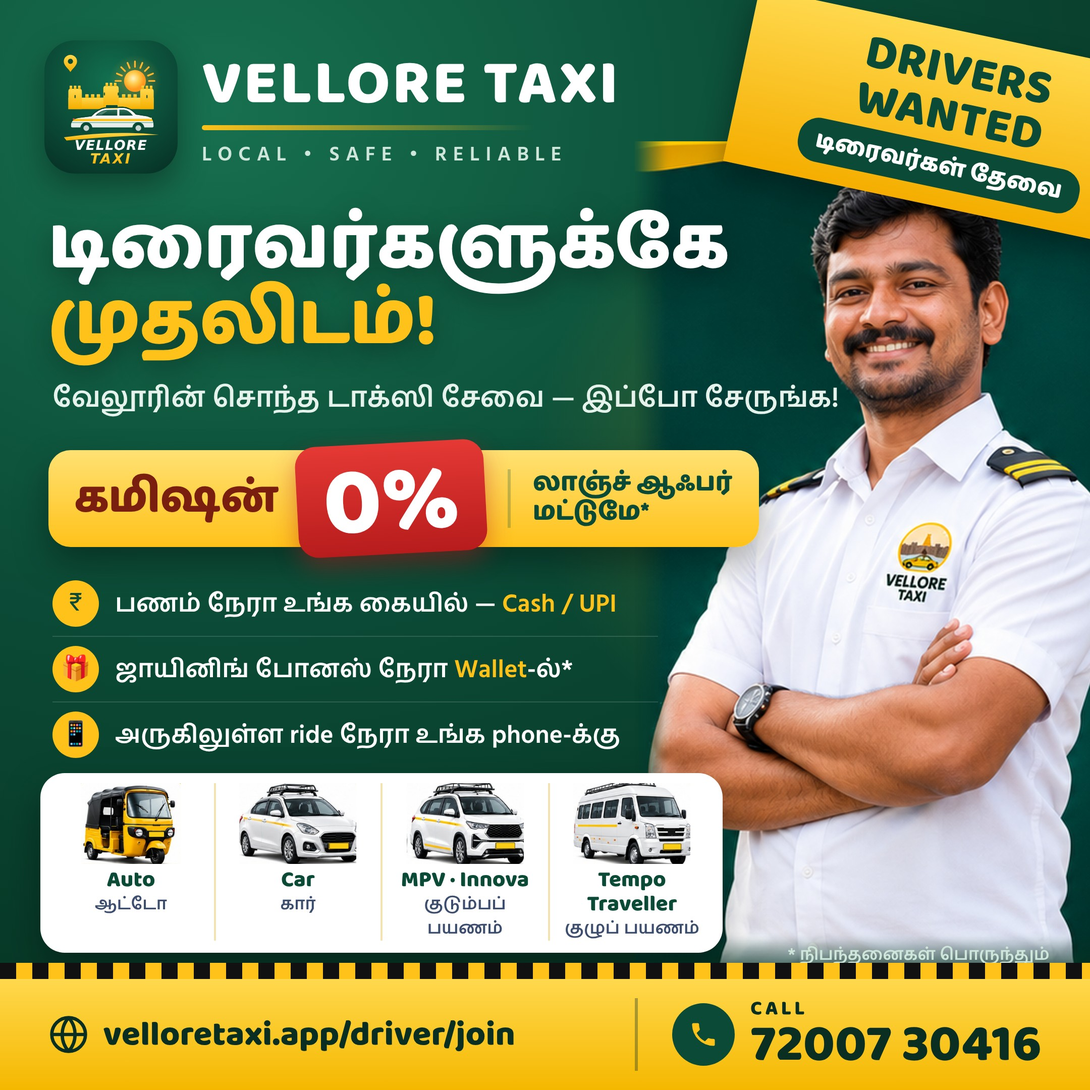
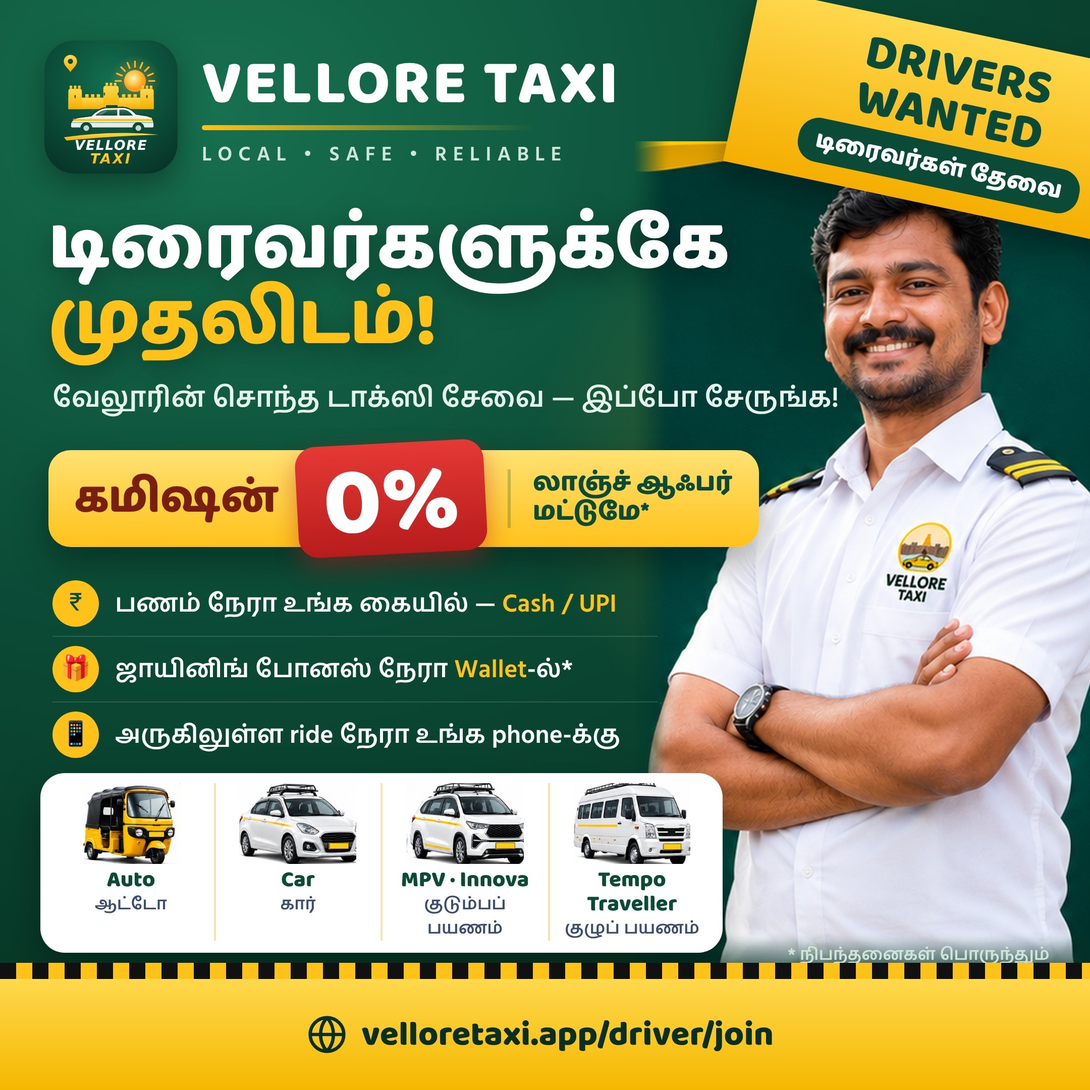
v75: Office Settings 'Driver help phone' — driver app calls it (empty = office phone); customers keep the office phone. Promo page: posters without phone, driver link /driver/. runhelp 7/7.
Claude-Session: https://claude.ai/code/session_012AzHw7bwToB8LFZ2KgyNPf

Changed region(s): [[0.031, 0.8995, 0.9616, 0.9926]]

diff --git a/office/index.html b/office/index.html
@@ -29,7 +29,7 @@
 <script>window.CLOUD_READY=new Promise(function(r){window.__cloud=r;setTimeout(function(){r(null)},20000)});</script>
 <script type="module">import('../vct-cloud.js').catch(function(e){console.error(e);window.__cloud(null)});</script>
 <script>/* auto-update: reload when a newer version of the app is published */
-(function(){var APPV=window.VCT_V='74',BASE=(document.querySelector('link[rel=manifest]')||{}).href||location.href;
+(function(){var APPV=window.VCT_V='75',BASE=(document.querySelector('link[rel=manifest]')||{}).href||location.href;
 function chk(){try{fetch(new URL('../version.json',location.href)+'?t='+Date.now(),{cache:'no-store'}).then(function(r){return r.json()}).then(function(j){
  if(!j||!j.v||j.v===APPV)return;var k='vct_reload_'+j.v;try{if(sessionStorage.getItem(k))return;sessionStorage.setItem(k,'1')}catch(e){}
  location.reload()}).catch(function(){})}catch(e){}}
@@ -701,11 +701,11 @@ details.faq p{margin:0;padding:0 14px 14px;color:var(--muted);font-size:14px;lin
 <div class="app" id="app"></div>
 <div class="toast" id="toast"></div>
 
-<script src="../core/report.js?v=74"></script>
-<script src="../core/geo.js?v=74"></script>
-<script src="../core/fare.js?v=74"></script>
-<script src="../core/driverchecks.js?v=74"></script>
-<script src="../core/map.js?v=74"></script>
+<script src="../core/report.js?v=75"></script>
+<script src="../core/geo.js?v=75"></script>
+<script src="../core/fare.js?v=75"></script>
+<script src="../core/driverchecks.js?v=75"></script>
+<script src="../core/map.js?v=75"></script>
 <script>
 /* shared with the customer app: icons, places, fares, map engine */
 const I = {
@@ -1747,7 +1747,8 @@ function settings(){
      <label class="lrow2"><span>${L('Driver app-ல "VCT கட்டணம்" breakup காட்டு (% காட்டாது — OFF என்றால் எங்கும் தெரியாது)','Show the "VCT fee" breakup in the driver app (never the % — OFF hides it everywhere)')}</span><input type="checkbox" id="sfee" ${c.showFee?'checked':''} style="width:22px;height:22px;flex:none"></label></section>
     <section class="panel"><div class="ph"><h3>${L('Business விவரம்','Business details')}</h3></div>
      <label class="lrow2 col"><span>${L('உங்க UPI ID (customer QR, driver recharge-க்கு)','Your UPI ID (customer QR and driver recharge)')}</span><span class="field"><input id="up" maxlength="50" placeholder="name@bank" value="${esc(c.upi)}"></span></label>
-     <label class="lrow2 col"><span>${L('Office phone (customer app "எங்களை அழை")','Office phone (customer app "Call us")')}</span><span class="field"><span class="cc">+91</span><input id="of" inputmode="numeric" maxlength="10" value="${esc(c.office)}"></span></label></section></div>
+     <label class="lrow2 col"><span>${L('Office phone (customer app "எங்களை அழை")','Office phone (customer app "Call us")')}</span><span class="field"><span class="cc">+91</span><input id="of" inputmode="numeric" maxlength="10" value="${esc(c.office)}"></span></label>
+     <label class="lrow2 col"><span>${L('ஓட்டுநர் உதவி எண் (driver app "Office-ஐ அழை" · காலியா விட்டா மேல உள்ள office எண்)','Driver help phone (driver app "Call the office" · empty = the office phone above)')}</span><span class="field"><span class="cc">+91</span><input id="dh" inputmode="numeric" maxlength="10" value="${esc(c.driverHelp||'')}"></span></label></section></div>
    <section class="panel" style="margin-top:14px"><div class="ph"><h3>${L('Outstation / Rental: Office முதல்','Outstation / rental: office first')}</h3></div>
     <p class="muted" style="margin:0 0 8px;font-size:13px">${L('புது Outstation / Rental booking முதல்ல office-க்கு வரும். இந்த நேரத்துக்குள்ள யாரும் assign பண்ணலைன்னா தானா drivers-க்கு போகும்: Outstation-க்கு 🏆 Top driver → 🆕 புது வண்டி (5 வருஷத்துக்குள்) → ⭐ மற்ற outstation drivers → 🚕 எல்லாரும். Top driver = ★4.5+ & 7 நாள்ல 35+ trips.','New outstation and rental bookings come to the office first. If nobody assigns in time, they go to drivers automatically. Outstation order: 🏆 top drivers → 🆕 new vehicles (≤5 yrs) → ⭐ other outstation drivers → 🚕 everyone. Top driver = ★4.5+ and 35+ trips in 7 days.')}</p>
     ${(()=>{const dp={...DISPD,...(c.dispatch||{})};const opt=(arr,v)=>arr.map(([x,l])=>`<option value="${x}" ${+v===x?'selected':''}>${l}</option>`).join('');
@@ -1795,10 +1796,11 @@ function settings(){
     // a config update from Firebase while this screen is open swaps the fare objects underneath the inputs,
     // so take every price from what is on screen right now, not from what was typed into the old objects
     app.querySelectorAll('.cell[data-f],[data-o],[data-r],[data-cb],.ocfg').forEach(i=>{if(i.oninput)i.oninput()});
-    const cm=+document.getElementById('cm').value,mb=+document.getElementById('mb').value,of=document.getElementById('of').value.replace(/\D/g,''),up=document.getElementById('up').value.trim();
+    const cm=+document.getElementById('cm').value,mb=+document.getElementById('mb').value,of=document.getElementById('of').value.replace(/\D/g,''),dh=document.getElementById('dh').value.replace(/\D/g,''),up=document.getElementById('up').value.trim();
     if(!(cm>=0&&cm<=40)){toast(L('Commission 0 முதல் 40% வரை','Commission must be 0–40%'));return}
     if(up&&!/^[\w.\-]{2,}@[a-zA-Z]{2,}$/.test(up)){toast(L('UPI ID சரியா இல்லை (name@bank)','UPI ID looks wrong (name@bank)'));return}
     if(of&&!/^[6-9]\d{9}$/.test(of)){toast(L('Office நம்பர் 10 இலக்கம்','Office number must be 10 digits'));return}
+    if(dh&&!/^[6-9]\d{9}$/.test(dh)){toast(L('ஓட்டுநர் உதவி நம்பர் 10 இலக்கம்','Driver help number must be 10 digits'));return}
     if(OUTV.some(id=>!(c.out.rate[id]>0)||!(c.out.rate1[id]>0))){toast(L('Outstation கி.மீ விலை 0 ஆக இருக்கக்கூடாது','Outstation per-km fares can’t be 0'));return}
     if(!(c.out.daykm>=100)){toast(L('ஒரு நாள் கி.மீ குறைந்தது 100','Km per day must be at least 100'));return}
     const gv=id=>parseInt(document.getElementById(id).value)||0,al=gv('a_local'),aa=gv('a_auto'),ca=gv('a_ca'),cb=gv('a_cb');
@@ -1812,8 +1814,8 @@ function settings(){
     if(nton&&(FARE.hm(ntf)==null||FARE.hm(ntt)==null||ntf===ntt)){toast(L('இரவு நேரம் சரியா போடுங்க','Enter valid night hours'));return}
     const nt={on:nton,from:ntf||'22:00',to:ntt||'05:00',pct:ntp>0?Math.min(100,ntp):25};c.night=nt;
     const dsp={review:+document.getElementById('drv').value,win:+document.getElementById('dw').value,gap:+document.getElementById('dg').value,fall:document.getElementById('dfb').checked};c.dispatch=dsp;
-    if(CL){cw(F().setDoc(F().doc(CL.db,'config','app'),{fares:c.fares,comm:cm,minbal:mb||0,office:of,upi:up,dispatch:dsp,wait:wt,night:nt,area,out:c.out,rent:c.rent,showBike:document.getElementById('sbk').checked,showFee:document.getElementById('sfee').checked,updatedAt:ts()},{merge:true}).then(()=>toast(L('சேமிச்சாச்சு. எல்லா app-லயும் உடனே மாறும்','Saved. All apps update right away'))));return}
-    Object.assign(c,{comm:cm,minbal:mb||0,office:of,upi:up,showFee:document.getElementById('sfee').checked});log('Settings மாற்றம்','Settings changed');saveDB();toast(L('சேமிச்சாச்சு','Saved'))};
+    if(CL){cw(F().setDoc(F().doc(CL.db,'config','app'),{fares:c.fares,comm:cm,minbal:mb||0,office:of,driverHelp:dh,upi:up,dispatch:dsp,wait:wt,night:nt,area,out:c.out,rent:c.rent,showBike:document.getElementById('sbk').checked,showFee:document.getElementById('sfee').checked,updatedAt:ts()},{merge:true}).then(()=>toast(L('சேமிச்சாச்சு. எல்லா app-லயும் உடனே மாறும்','Saved. All apps update right away'))));return}
+    Object.assign(c,{comm:cm,minbal:mb||0,office:of,driverHelp:dh,upi:up,showFee:document.getElementById('sfee').checked});log('Settings மாற்றம்','Settings changed');saveDB();toast(L('சேமிச்சாச்சு','Saved'))};
   {const sv=document.getElementById('ssv');if(sv)sv.onclick=()=>{if(CL&&!CFGOK)return;const vp=document.getElementById('svp').value.trim();if(vp&&!/^[A-Za-z0-9_\-]{60,120}$/.test(vp)){toast(L('VAPID key சரியா இல்லை','The VAPID key looks wrong'));return}
       const o={serverComm:document.getElementById('ssc').checked,serverOps:document.getElementById('sso').checked,privPhone:document.getElementById('spp').checked,serverPin:document.getElementById('spn').checked,reqConsent:document.getElementById('srq').checked,extNav:document.getElementById('sxn').checked,push:{vapid:vp},updatedAt:ts()};
       cw(F().setDoc(F().doc(CL.db,'config','app'),o,{merge:true}).then(()=>{Object.assign(c,o);toast(L('சேமிச்சாச்சு','Saved'))}))}}
@@ -1879,7 +1881,7 @@ function watchAll(){
   OUNS.push(F().onSnapshot(F().collection(CL.db,'driverApps'),s=>{const before=(DB.apps||[]).filter(a=>a.status==='pending').length;DB.apps=s.docs.map(d=>({id:d.id,...d.data()})).sort((x,y)=>CL.toMs(y.submittedAt)-CL.toMs(x.submittedAt));const n=DB.apps.filter(a=>a.status==='pending').length;if(SEEN!==null&&n>before){chime();toast(L('புது driver விண்ணப்பம் வந்திருக்கு','New driver application'))}remap()},oerr));
   OUNS.push(F().onSnapshot(F().query(F().collection(CL.db,'tickets'),F().orderBy('createdAt','desc'),F().limit(300)),s=>{RAWT=s.docs.map(d=>({_id:d.id,...d.data()}));remap()},oerr));
   OUNS.push(F().onSnapshot(F().doc(CL.db,'config','app'),s=>{const first=!CFGOK;CFGOK=true;if(s.exists()){const d=s.data();
-    Object.assign(DB.cfg,{comm:d.comm!=null?+d.comm:10,minbal:d.minbal!=null?+d.minbal:100,upi:d.upi||'',office:d.office||'',dispatch:{...DISPD,...(d.dispatch||{})},wait:d.wait||null,serverComm:!!d.serverComm,serverOps:!!d.serverOps,privPhone:!!d.privPhone,serverPin:!!d.serverPin,reqConsent:!!d.reqConsent,extNav:!!d.extNav,push:d.push||null,night:d.night||null,out:mergeOut(d.out),area:d.area||null,rent:mergeRent(d.rent),blocked:Array.isArray(d.blocked)?d.blocked:[],showBike:!!d.showBike,showFee:!!d.showFee,announce:Array.isArray(d.announce)?d.announce:[]});
+    Object.assign(DB.cfg,{comm:d.comm!=null?+d.comm:10,minbal:d.minbal!=null?+d.minbal:100,upi:d.upi||'',office:d.office||'',driverHelp:d.driverHelp||'',dispatch:{...DISPD,...(d.dispatch||{})},wait:d.wait||null,serverComm:!!d.serverComm,serverOps:!!d.serverOps,privPhone:!!d.privPhone,serverPin:!!d.serverPin,reqConsent:!!d.reqConsent,extNav:!!d.extNav,push:d.push||null,night:d.night||null,out:mergeOut(d.out),area:d.area||null,rent:mergeRent(d.rent),blocked:Array.isArray(d.blocked)?d.blocked:[],showBike:!!d.showBike,showFee:!!d.showFee,announce:Array.isArray(d.announce)?d.announce:[]});
     if(d.fares)Object.keys(d.fares).forEach(k=>{DB.cfg.fares[k]={...(DB.cfg.fares[k]||{}),...d.fares[k]}})}remap();
     // Settings opened before the saved settings arrived (e.g. after a refresh): draw it again with the real values
     if(first&&S.sec==='set'&&!document.querySelector('.modal')&&!typing())show()},oerr));

diff --git a/staging/office/index.html b/staging/office/index.html
@@ -29,7 +29,7 @@
 <script>window.CLOUD_READY=new Promise(function(r){window.__cloud=r;setTimeout(function(){r(null)},20000)});</script>
 <script type="module">import('../vct-cloud.js').catch(function(e){console.error(e);window.__cloud(null)});</script>
 <script>/* auto-update: reload when a newer version of the app is published */
-(function(){var APPV=window.VCT_V='74',BASE=(document.querySelector('link[rel=manifest]')||{}).href||location.href;
+(function(){var APPV=window.VCT_V='75',BASE=(document.querySelector('link[rel=manifest]')||{}).href||location.href;
 function chk(){try{fetch(new URL('../version.json',location.href)+'?t='+Date.now(),{cache:'no-store'}).then(function(r){return r.json()}).then(function(j){
  if(!j||!j.v||j.v===APPV)return;var k='vct_reload_'+j.v;try{if(sessionStorage.getItem(k))return;sessionStorage.setItem(k,'1')}catch(e){}
  location.reload()}).catch(function(){})}catch(e){}}
@@ -701,11 +701,11 @@ details.faq p{margin:0;padding:0 14px 14px;color:var(--muted);font-size:14px;lin
 <div class="app" id="app"></div>
 <div class="toast" id="toast"></div>
 
-<script src="../core/report.js?v=74"></script>
-<script src="../core/geo.js?v=74"></script>
-<script src="../core/fare.js?v=74"></script>
-<script src="../core/driverchecks.js?v=74"></script>
-<script src="../core/map.js?v=74"></script>
+<script src="../core/report.js?v=75"></script>
+<script src="../core/geo.js?v=75"></script>
+<script src="../core/fare.js?v=75"></script>
+<script src="../core/driverchecks.js?v=75"></script>
+<script src="../core/map.js?v=75"></script>
 <script>
 /* shared with the customer app: icons, places, fares, map engine */
 const I = {
@@ -1747,7 +1747,8 @@ function settings(){
      <label class="lrow2"><span>${L('Driver app-ல "VCT கட்டணம்" breakup காட்டு (% காட்டாது — OFF என்றால் எங்கும் தெரியாது)','Show the "VCT fee" breakup in the driver app (never the % — OFF hides it everywhere)')}</span><input type="checkbox" id="sfee" ${c.showFee?'checked':''} style="width:22px;height:22px;flex:none"></label></section>
     <section class="panel"><div class="ph"><h3>${L('Business விவரம்','Business details')}</h3></div>
      <label class="lrow2 col"><span>${L('உங்க UPI ID (customer QR, driver recharge-க்கு)','Your UPI ID (customer QR and driver recharge)')}</span><span class="field"><input id="up" maxlength="50" placeholder="name@bank" value="${esc(c.upi)}"></span></label>
-     <label class="lrow2 col"><span>${L('Office phone (customer app "எங்களை அழை")','Office phone (customer app "Call us")')}</span><span class="field"><span class="cc">+91</span><input id="of" inputmode="numeric" maxlength="10" value="${esc(c.office)}"></span></label></section></div>
+     <label class="lrow2 col"><span>${L('Office phone (customer app "எங்களை அழை")','Office phone (customer app "Call us")')}</span><span class="field"><span class="cc">+91</span><input id="of" inputmode="numeric" maxlength="10" value="${esc(c.office)}"></span></label>
+     <label class="lrow2 col"><span>${L('ஓட்டுநர் உதவி எண் (driver app "Office-ஐ அழை" · காலியா விட்டா மேல உள்ள office எண்)','Driver help phone (driver app "Call the office" · empty = the office phone above)')}</span><span class="field"><span class="cc">+91</span><input id="dh" inputmode="numeric" maxlength="10" value="${esc(c.driverHelp||'')}"></span></label></section></div>
    <section class="panel" style="margin-top:14px"><div class="ph"><h3>${L('Outstation / Rental: Office முதல்','Outstation / rental: office first')}</h3></div>
     <p class="muted" style="margin:0 0 8px;font-size:13px">${L('புது Outstation / Rental booking முதல்ல office-க்கு வரும். இந்த நேரத்துக்குள்ள யாரும் assign பண்ணலைன்னா தானா drivers-க்கு போகும்: Outstation-க்கு 🏆 Top driver → 🆕 புது வண்டி (5 வருஷத்துக்குள்) → ⭐ மற்ற outstation drivers → 🚕 எல்லாரும். Top driver = ★4.5+ & 7 நாள்ல 35+ trips.','New outstation and rental bookings come to the office first. If nobody assigns in time, they go to drivers automatically. Outstation order: 🏆 top drivers → 🆕 new vehicles (≤5 yrs) → ⭐ other outstation drivers → 🚕 everyone. Top driver = ★4.5+ and 35+ trips in 7 days.')}</p>
     ${(()=>{const dp={...DISPD,...(c.dispatch||{})};const opt=(arr,v)=>arr.map(([x,l])=>`<option value="${x}" ${+v===x?'selected':''}>${l}</option>`).join('');
@@ -1795,10 +1796,11 @@ function settings(){
     // a config update from Firebase while this screen is open swaps the fare objects underneath the inputs,
     // so take every price from what is on screen right now, not from what was typed into the old objects
     app.querySelectorAll('.cell[data-f],[data-o],[data-r],[data-cb],.ocfg').forEach(i=>{if(i.oninput)i.oninput()});
-    const cm=+document.getElementById('cm').value,mb=+document.getElementById('mb').value,of=document.getElementById('of').value.replace(/\D/g,''),up=document.getElementById('up').value.trim();
+    const cm=+document.getElementById('cm').value,mb=+document.getElementById('mb').value,of=document.getElementById('of').value.replace(/\D/g,''),dh=document.getElementById('dh').value.replace(/\D/g,''),up=document.getElementById('up').value.trim();
     if(!(cm>=0&&cm<=40)){toast(L('Commission 0 முதல் 40% வரை','Commission must be 0–40%'));return}
     if(up&&!/^[\w.\-]{2,}@[a-zA-Z]{2,}$/.test(up)){toast(L('UPI ID சரியா இல்லை (name@bank)','UPI ID looks wrong (name@bank)'));return}
     if(of&&!/^[6-9]\d{9}$/.test(of)){toast(L('Office நம்பர் 10 இலக்கம்','Office number must be 10 digits'));return}
+    if(dh&&!/^[6-9]\d{9}$/.test(dh)){toast(L('ஓட்டுநர் உதவி நம்பர் 10 இலக்கம்','Driver help number must be 10 digits'));return}
     if(OUTV.some(id=>!(c.out.rate[id]>0)||!(c.out.rate1[id]>0))){toast(L('Outstation கி.மீ விலை 0 ஆக இருக்கக்கூடாது','Outstation per-km fares can’t be 0'));return}
     if(!(c.out.daykm>=100)){toast(L('ஒரு நாள் கி.மீ குறைந்தது 100','Km per day must be at least 100'));return}
     const gv=id=>parseInt(document.getElementById(id).value)||0,al=gv('a_local'),aa=gv('a_auto'),ca=gv('a_ca'),cb=gv('a_cb');
@@ -1812,8 +1814,8 @@ function settings(){
     if(nton&&(FARE.hm(ntf)==null||FARE.hm(ntt)==null||ntf===ntt)){toast(L('இரவு நேரம் சரியா போடுங்க','Enter valid night hours'));return}
     const nt={on:nton,from:ntf||'22:00',to:ntt||'05:00',pct:ntp>0?Math.min(100,ntp):25};c.night=nt;
     const dsp={review:+document.getElementById('drv').value,win:+document.getElementById('dw').value,gap:+document.getElementById('dg').value,fall:document.getElementById('dfb').checked};c.dispatch=dsp;
-    if(CL){cw(F().setDoc(F().doc(CL.db,'config','app'),{fares:c.fares,comm:cm,minbal:mb||0,office:of,upi:up,dispatch:dsp,wait:wt,night:nt,area,out:c.out,rent:c.rent,showBike:document.getElementById('sbk').checked,showFee:document.getElementById('sfee').checked,updatedAt:ts()},{merge:true}).then(()=>toast(L('சேமிச்சாச்சு. எல்லா app-லயும் உடனே மாறும்','Saved. All apps update right away'))));return}
-    Object.assign(c,{comm:cm,minbal:mb||0,office:of,upi:up,showFee:document.getElementById('sfee').checked});log('Settings மாற்றம்','Settings changed');saveDB();toast(L('சேமிச்சாச்சு','Saved'))};
+    if(CL){cw(F().setDoc(F().doc(CL.db,'config','app'),{fares:c.fares,comm:cm,minbal:mb||0,office:of,driverHelp:dh,upi:up,dispatch:dsp,wait:wt,night:nt,area,out:c.out,rent:c.rent,showBike:document.getElementById('sbk').checked,showFee:document.getElementById('sfee').checked,updatedAt:ts()},{merge:true}).then(()=>toast(L('சேமிச்சாச்சு. எல்லா app-லயும் உடனே மாறும்','Saved. All apps update right away'))));return}
+    Object.assign(c,{comm:cm,minbal:mb||0,office:of,driverHelp:dh,upi:up,showFee:document.getElementById('sfee').checked});log('Settings மாற்றம்','Settings changed');saveDB();toast(L('சேமிச்சாச்சு','Saved'))};
   {const sv=document.getElementById('ssv');if(sv)sv.onclick=()=>{if(CL&&!CFGOK)return;const vp=document.getElementById('svp').value.trim();if(vp&&!/^[A-Za-z0-9_\-]{60,120}$/.test(vp)){toast(L('VAPID key சரியா இல்லை','The VAPID key looks wrong'));return}
       const o={serverComm:document.getElementById('ssc').checked,serverOps:document.getElementById('sso').checked,privPhone:document.getElementById('spp').checked,serverPin:document.getElementById('spn').checked,reqConsent:document.getElementById('srq').checked,extNav:document.getElementById('sxn').checked,push:{vapid:vp},updatedAt:ts()};
       cw(F().setDoc(F().doc(CL.db,'config','app'),o,{merge:true}).then(()=>{Object.assign(c,o);toast(L('சேமிச்சாச்சு','Saved'))}))}}
@@ -1879,7 +1881,7 @@ function watchAll(){
   OUNS.push(F().onSnapshot(F().collection(CL.db,'driverApps'),s=>{const before=(DB.apps||[]).filter(a=>a.status==='pending').length;DB.apps=s.docs.map(d=>({id:d.id,...d.data()})).sort((x,y)=>CL.toMs(y.submittedAt)-CL.toMs(x.submittedAt));const n=DB.apps.filter(a=>a.status==='pending').length;if(SEEN!==null&&n>before){chime();toast(L('புது driver விண்ணப்பம் வந்திருக்கு','New driver application'))}remap()},oerr));
   OUNS.push(F().onSnapshot(F().query(F().collection(CL.db,'tickets'),F().orderBy('createdAt','desc'),F().limit(300)),s=>{RAWT=s.docs.map(d=>({_id:d.id,...d.data()}));remap()},oerr));
   OUNS.push(F().onSnapshot(F().doc(CL.db,'config','app'),s=>{const first=!CFGOK;CFGOK=true;if(s.exists()){const d=s.data();
-    Object.assign(DB.cfg,{comm:d.comm!=null?+d.comm:10,minbal:d.minbal!=null?+d.minbal:100,upi:d.upi||'',office:d.office||'',dispatch:{...DISPD,...(d.dispatch||{})},wait:d.wait||null,serverComm:!!d.serverComm,serverOps:!!d.serverOps,privPhone:!!d.privPhone,serverPin:!!d.serverPin,reqConsent:!!d.reqConsent,extNav:!!d.extNav,push:d.push||null,night:d.night||null,out:mergeOut(d.out),area:d.area||null,rent:mergeRent(d.rent),blocked:Array.isArray(d.blocked)?d.blocked:[],showBike:!!d.showBike,showFee:!!d.showFee,announce:Array.isArray(d.announce)?d.announce:[]});
+    Object.assign(DB.cfg,{comm:d.comm!=null?+d.comm:10,minbal:d.minbal!=null?+d.minbal:100,upi:d.upi||'',office:d.office||'',driverHelp:d.driverHelp||'',dispatch:{...DISPD,...(d.dispatch||{})},wait:d.wait||null,serverComm:!!d.serverComm,serverOps:!!d.serverOps,privPhone:!!d.privPhone,serverPin:!!d.serverPin,reqConsent:!!d.reqConsent,extNav:!!d.extNav,push:d.push||null,night:d.night||null,out:mergeOut(d.out),area:d.area||null,rent:mergeRent(d.rent),blocked:Array.isArray(d.blocked)?d.blocked:[],showBike:!!d.showBike,showFee:!!d.showFee,announce:Array.isArray(d.announce)?d.announce:[]});
     if(d.fares)Object.keys(d.fares).forEach(k=>{DB.cfg.fares[k]={...(DB.cfg.fares[k]||{}),...d.fares[k]}})}remap();
     // Settings opened before the saved settings arrived (e.g. after a refresh): draw it again with the real values
     if(first&&S.sec==='set'&&!document.querySelector('.modal')&&!typing())show()},oerr));

diff --git a/driver/index.html b/driver/index.html
@@ -46,7 +46,7 @@
 <script>window.CLOUD_READY=new Promise(function(r){window.__cloud=r;setTimeout(function(){r(null)},20000)});</script>
 <script type="module">import('../vct-cloud.js').catch(function(e){console.error(e);window.__cloud(null)});</script>
 <script>/* auto-update: reload when a newer version of the app is published */
-(function(){var APPV=window.VCT_V='74',BASE=(document.querySelector('link[rel=manifest]')||{}).href||location.href;
+(function(){var APPV=window.VCT_V='75',BASE=(document.querySelector('link[rel=manifest]')||{}).href||location.href;
 function chk(){try{fetch(new URL('../version.json',location.href)+'?t='+Date.now(),{cache:'no-store'}).then(function(r){return r.json()}).then(function(j){
  if(!j||!j.v||j.v===APPV)return;var k='vct_reload_'+j.v;try{if(sessionStorage.getItem(k))return;sessionStorage.setItem(k,'1')}catch(e){}
  location.reload()}).catch(function(){})}catch(e){}}
@@ -647,15 +647,15 @@ a.btn{text-decoration:none}
 <div class="app" id="app"></div>
 <div class="toast" id="toast"></div>
 
-<script src="../core/report.js?v=74"></script>
-<script src="../core/geo.js?v=74"></script>
-<script src="../core/fare.js?v=74"></script>
-<script src="../core/pin.js?v=74"></script>
-<script src="../core/clock.js?v=74"></script>
-<script src="../core/map.js?v=74"></script>
-<script src="../core/chat.js?v=74"></script>
-<script src="../core/driverchecks.js?v=74"></script>
-<script src="../core/nav.js?v=74"></script>
+<script src="../core/report.js?v=75"></script>
+<script src="../core/geo.js?v=75"></script>
+<script src="../core/fare.js?v=75"></script>
+<script src="../core/pin.js?v=75"></script>
+<script src="../core/clock.js?v=75"></script>
+<script src="../core/map.js?v=75"></script>
+<script src="../core/chat.js?v=75"></script>
+<script src="../core/driverchecks.js?v=75"></script>
+<script src="../core/nav.js?v=75"></script>
 <script>
 /* shared with the customer app: icons, places, fares, map engine */
 const I = {
@@ -1362,7 +1362,7 @@ function watchMe(){UNS.push(F().onSnapshot(F().doc(CL.db,'drivers',CL.phone),s=>
   if(S.online&&!J&&docState().expired.length){setOnline(false);toast(L('ஒரு document காலாவதி ஆயிடுச்சு. Offline ஆக்கப்பட்டீங்க','A document has expired. You have been taken offline'))}
   if(!J&&!document.querySelector('.modal')){if(S.tab==='wallet'&&before!==DS.wallet)walletTab();else if(S.tab==='home'&&(document.getElementById('ons')||(document.getElementById('ons')||document.getElementById('offs'))))home()}},()=>{}))}
 function watchCfgD(){UNS.push(F().onSnapshot(F().doc(CL.db,'config','app'),s=>{if(!s.exists())return;const d=s.data();
-  if(d.comm!=null)COMM=+d.comm;if(d.minbal!=null)MINBAL=+d.minbal;CFGD.upi=d.upi||'';CFGD.office=d.office||'';CFGD.serverComm=!!d.serverComm;CFGD.serverPin=!!d.serverPin;CFGD.reqConsent=!!d.reqConsent;CFGD.extNav=!!d.extNav;CFGD.showFee=!!d.showFee;CFGD.wait=d.wait||null;CFGD.push=d.push||null;
+  if(d.comm!=null)COMM=+d.comm;if(d.minbal!=null)MINBAL=+d.minbal;CFGD.upi=d.upi||'';CFGD.office=d.driverHelp||d.office||''; // drivers call the driver help line when the office has set oneCFGD.serverComm=!!d.serverComm;CFGD.serverPin=!!d.serverPin;CFGD.reqConsent=!!d.reqConsent;CFGD.extNav=!!d.extNav;CFGD.showFee=!!d.showFee;CFGD.wait=d.wait||null;CFGD.push=d.push||null;
   {const na=Array.isArray(d.announce)?d.announce:[],top=na[0];const fresh=top&&(!ANN[0]||ANN[0].id!==top.id)&&top.t>seenAt();ANN=na;
    if(fresh&&ANN.length&&!J&&!document.querySelector('.modal')){beep();toast('📢 '+(top.title||L('Office அறிவிப்பு','Office notice')));if(S.tab==='home'&&document.getElementById('menu'))home()}}if(d.dispatch)Object.assign(DISP,d.dispatch);
   if(d.fares)VEH.forEach(v=>{const f=d.fares[v.id];if(f&&v.id!=='auto'){if(f.base!=null)v.base=+f.base;if(f.per!=null)v.per=+f.per}})},()=>{}))}

diff --git a/staging/driver/index.html b/staging/driver/index.html
@@ -46,7 +46,7 @@
 <script>window.CLOUD_READY=new Promise(function(r){window.__cloud=r;setTimeout(function(){r(null)},20000)});</script>
 <script type="module">import('../vct-cloud.js').catch(function(e){console.error(e);window.__cloud(null)});</script>
 <script>/* auto-update: reload when a newer version of the app is published */
-(function(){var APPV=window.VCT_V='74',BASE=(document.querySelector('link[rel=manifest]')||{}).href||location.href;
+(function(){var APPV=window.VCT_V='75',BASE=(document.querySelector('link[rel=manifest]')||{}).href||location.href;
 function chk(){try{fetch(new URL('../version.json',location.href)+'?t='+Date.now(),{cache:'no-store'}).then(function(r){return r.json()}).then(function(j){
  if(!j||!j.v||j.v===APPV)return;var k='vct_reload_'+j.v;try{if(sessionStorage.getItem(k))return;sessionStorage.setItem(k,'1')}catch(e){}
  location.reload()}).catch(function(){})}catch(e){}}
@@ -647,15 +647,15 @@ a.btn{text-decoration:none}
 <div class="app" id="app"></div>
 <div class="toast" id="toast"></div>
 
-<script src="../core/report.js?v=74"></script>
-<script src="../core/geo.js?v=74"></script>
-<script src="../core/fare.js?v=74"></script>
-<script src="../core/pin.js?v=74"></script>
-<script src="../core/clock.js?v=74"></script>
-<script src="../core/map.js?v=74"></script>
-<script src="../core/chat.js?v=74"></script>
-<script src="../core/driverchecks.js?v=74"></script>
-<script src="../core/nav.js?v=74"></script>
+<script src="../core/report.js?v=75"></script>
+<script src="../core/geo.js?v=75"></script>
+<script src="../core/fare.js?v=75"></script>
+<script src="../core/pin.js?v=75"></script>
+<script src="../core/clock.js?v=75"></script>
+<script src="../core/map.js?v=75"></script>
+<script src="../core/chat.js?v=75"></script>
+<script src="../core/driverchecks.js?v=75"></script>
+<script src="../core/nav.js?v=75"></script>
 <script>
 /* shared with the customer app: icons, places, fares, map engine */
 const I = {
@@ -1362,7 +1362,7 @@ function watchMe(){UNS.push(F().onSnapshot(F().doc(CL.db,'drivers',CL.phone),s=>
   if(S.online&&!J&&docState().expired.length){setOnline(false);toast(L('ஒரு document காலாவதி ஆயிடுச்சு. Offline ஆக்கப்பட்டீங்க','A document has expired. You have been taken offline'))}
   if(!J&&!document.querySelector('.modal')){if(S.tab==='wallet'&&before!==DS.wallet)walletTab();else if(S.tab==='home'&&(document.getElementById('ons')||(document.getElementById('ons')||document.getElementById('offs'))))home()}},()=>{}))}
 function watchCfgD(){UNS.push(F().onSnapshot(F().doc(CL.db,'config','app'),s=>{if(!s.exists())return;const d=s.data();
-  if(d.comm!=null)COMM=+d.comm;if(d.minbal!=null)MINBAL=+d.minbal;CFGD.upi=d.upi||'';CFGD.office=d.office||'';CFGD.serverComm=!!d.serverComm;CFGD.serverPin=!!d.serverPin;CFGD.reqConsent=!!d.reqConsent;CFGD.extNav=!!d.extNav;CFGD.showFee=!!d.showFee;CFGD.wait=d.wait||null;CFGD.push=d.push||null;
+  if(d.comm!=null)COMM=+d.comm;if(d.minbal!=null)MINBAL=+d.minbal;CFGD.upi=d.upi||'';CFGD.office=d.driverHelp||d.office||''; // drivers call the driver help line when the office has set oneCFGD.serverComm=!!d.serverComm;CFGD.serverPin=!!d.serverPin;CFGD.reqConsent=!!d.reqConsent;CFGD.extNav=!!d.extNav;CFGD.showFee=!!d.showFee;CFGD.wait=d.wait||null;CFGD.push=d.push||null;
   {const na=Array.isArray(d.announce)?d.announce:[],top=na[0];const fresh=top&&(!ANN[0]||ANN[0].id!==top.id)&&top.t>seenAt();ANN=na;
    if(fresh&&ANN.length&&!J&&!document.querySelector('.modal')){beep();toast('📢 '+(top.title||L('Office அறிவிப்பு','Office notice')));if(S.tab==='home'&&document.getElementById('menu'))home()}}if(d.dispatch)Object.assign(DISP,d.dispatch);
   if(d.fares)VEH.forEach(v=>{const f=d.fares[v.id];if(f&&v.id!=='auto'){if(f.base!=null)v.base=+f.base;if(f.per!=null)v.per=+f.per}})},()=>{}))}

diff --git a/promo/index.html b/promo/index.html
@@ -6,7 +6,7 @@
 <title>Drivers Wanted · Vellore Taxi</title>
 <meta name="description" content="Vellore Taxi-ல் டிரைவராக சேருங்க — கமிஷன் 0% லாஞ்ச் ஆஃபர்.">
 <meta property="og:title" content="டிரைவர்கள் தேவை · Vellore Taxi">
-<meta property="og:description" content="கமிஷன் 0% லாஞ்ச் ஆஃபர். இப்போ சேருங்க: velloretaxi.app/driver/join">
+<meta property="og:description" content="கமிஷன் 0% லாஞ்ச் ஆஃபர். இப்போ சேருங்க: velloretaxi.app/driver">
 <meta property="og:image" content="https://velloretaxi.app/promo/drivers-wanted-1.jpg">
 <style>
 :root{--g:#0B4A36;--y:#FFC21A;--bg:#F4F7F5;--ink:#10241C}
@@ -32,9 +32,9 @@ footer a{color:var(--g);font-weight:700}
  <figure><img src="drivers-wanted-2.jpg" alt="Vellore Taxi — உங்க வண்டி. உங்க நேரம். உங்க வருமானம். கமிஷன் 0%" loading="lazy">
   <div class="b"><a class="dl" href="drivers-wanted-2.jpg" download>⬇ Download</a><a class="wa" data-share href="#">WhatsApp</a></div></figure>
 </main>
-<footer>சேர: <a href="/driver/join/">velloretaxi.app/driver/join</a> · Call <a href="tel:+917200730416">72007 30416</a></footer>
+<footer>சேர: <a href="/driver/">velloretaxi.app/driver</a></footer>
 <script>
-const msg='Vellore Taxi-ல் டிரைவராக சேருங்க! கமிஷன் 0% (லாஞ்ச் ஆஃபர்). Join: https://velloretaxi.app/driver/join/ · Call 72007 30416';
+const msg='🚖 சொந்த வண்டி வைத்திருக்கும் டிரைவர்களுக்கு – Vellore Taxi-ல் இணையுங்கள்! கமிஷன் 0% (லாஞ்ச் ஆஃபர்). முதலில் சேருபவர்களுக்கு முன்னுரிமை. பதிவு செய்ய: https://velloretaxi.app/driver/';
 document.querySelectorAll('[data-share]').forEach(a=>a.addEventListener('click',async e=>{
   e.preventDefault();const img=a.closest('figure').querySelector('img');
   // phones that can share files send the poster itself; otherwise the message with the link

diff --git a/index.html b/index.html
@@ -39,7 +39,7 @@
 <script>window.CLOUD_READY=new Promise(function(r){window.__cloud=r;setTimeout(function(){r(null)},20000)});</script>
 <script type="module">import('./vct-cloud.js').catch(function(e){console.error(e);window.__cloud(null)});</script>
 <script>/* auto-update: reload when a newer version of the app is published */
-(function(){var APPV=window.VCT_V='74',BASE=(document.querySelector('link[rel=manifest]')||{}).href||location.href;
+(function(){var APPV=window.VCT_V='75',BASE=(document.querySelector('link[rel=manifest]')||{}).href||location.href;
 function chk(){try{fetch(new URL('./version.json',location.href)+'?t='+Date.now(),{cache:'no-store'}).then(function(r){return r.json()}).then(function(j){
  if(!j||!j.v||j.v===APPV)return;var k='vct_reload_'+j.v;try{if(sessionStorage.getItem(k))return;sessionStorage.setItem(k,'1')}catch(e){}
  location.reload()}).catch(function(){})}catch(e){}}
@@ -536,13 +536,13 @@ details.faq p{margin:0;padding:0 14px 14px;color:var(--muted);font-size:14px;lin
 <div class="app" id="app"></div>
 <div class="toast" id="toast"></div>
 
-<script src="./core/report.js?v=74"></script>
-<script src="./core/geo.js?v=74"></script>
-<script src="./core/fare.js?v=74"></script>
-<script src="./core/pin.js?v=74"></script>
-<script src="./core/clock.js?v=74"></script>
-<script src="./core/map.js?v=74"></script>
-<script src="./core/chat.js?v=74"></script>
+<script src="./core/report.js?v=75"></script>
+<script src="./core/geo.js?v=75"></script>
+<script src="./core/fare.js?v=75"></script>
+<script src="./core/pin.js?v=75"></script>
+<script src="./core/clock.js?v=75"></script>
+<script src="./core/map.js?v=75"></script>
+<script src="./core/chat.js?v=75"></script>
 <script>
 /* ---------- icons ---------- */
 const I = {

diff --git a/staging/index.html b/staging/index.html
@@ -39,7 +39,7 @@
 <script>window.CLOUD_READY=new Promise(function(r){window.__cloud=r;setTimeout(function(){r(null)},20000)});</script>
 <script type="module">import('./vct-cloud.js').catch(function(e){console.error(e);window.__cloud(null)});</script>
 <script>/* auto-update: reload when a newer version of the app is published */
-(function(){var APPV=window.VCT_V='74',BASE=(document.querySelector('link[rel=manifest]')||{}).href||location.href;
+(function(){var APPV=window.VCT_V='75',BASE=(document.querySelector('link[rel=manifest]')||{}).href||location.href;
 function chk(){try{fetch(new URL('./version.json',location.href)+'?t='+Date.now(),{cache:'no-store'}).then(function(r){return r.json()}).then(function(j){
  if(!j||!j.v||j.v===APPV)return;var k='vct_reload_'+j.v;try{if(sessionStorage.getItem(k))return;sessionStorage.setItem(k,'1')}catch(e){}
  location.reload()}).catch(function(){})}catch(e){}}
@@ -536,13 +536,13 @@ details.faq p{margin:0;padding:0 14px 14px;color:var(--muted);font-size:14px;lin
 <div class="app" id="app"></div>
 <div class="toast" id="toast"></div>
 
-<script src="./core/report.js?v=74"></script>
-<script src="./core/geo.js?v=74"></script>
-<script src="./core/fare.js?v=74"></script>
-<script src="./core/pin.js?v=74"></script>
-<script src="./core/clock.js?v=74"></script>
-<script src="./core/map.js?v=74"></script>
-<script src="./core/chat.js?v=74"></script>
+<script src="./core/report.js?v=75"></script>
+<script src="./core/geo.js?v=75"></script>
+<script src="./core/fare.js?v=75"></script>
+<script src="./core/pin.js?v=75"></script>
+<script src="./core/clock.js?v=75"></script>
+<script src="./core/map.js?v=75"></script>
+<script src="./core/chat.js?v=75"></script>
 <script>
 /* ---------- icons ---------- */
 const I = {

diff --git a/driver/join/index.html b/driver/join/index.html
@@ -57,7 +57,7 @@ a{color:inherit}
 .agr{margin:0;padding-left:20px;max-height:260px;overflow:auto;border:1.5px solid var(--line,#e5e5e5);border-radius:12px;padding:10px 10px 10px 30px;font-size:13.5px;line-height:1.55}.agr li{margin:0 0 6px}
 </style>
 <script>/* auto-update: reload when a newer version of the app is published */
-(function(){var APPV=window.VCT_V='74',BASE=(document.querySelector('link[rel=manifest]')||{}).href||location.href;
+(function(){var APPV=window.VCT_V='75',BASE=(document.querySelector('link[rel=manifest]')||{}).href||location.href;
 function chk(){try{fetch(new URL('../../version.json',location.href)+'?t='+Date.now(),{cache:'no-store'}).then(function(r){return r.json()}).then(function(j){
  if(!j||!j.v||j.v===APPV)return;var k='vct_reload_'+j.v;try{if(sessionStorage.getItem(k))return;sessionStorage.setItem(k,'1')}catch(e){}
  location.reload()}).catch(function(){})}catch(e){}}
@@ -71,8 +71,8 @@ setTimeout(chk,3000);setInterval(chk,5*60*1000);document.addEventListener('visib
 </div></header>
 <main class="wrap" id="app"></main>
 <footer><a href="../../privacy/#drivers" target="_blank" rel="noopener" id="plink"></a> · Vellore Taxi</footer>
-<script src="../../core/report.js?v=74"></script>
-<script src="../../core/driverchecks.js?v=74"></script>
+<script src="../../core/report.js?v=75"></script>
+<script src="../../core/driverchecks.js?v=75"></script>
 <script>
 const S={lang:'ta',phone:'',veh:'auto',files:{},data:{}};
 try{const s=JSON.parse(localStorage.getItem('vctj')||'{}');if(s.lang)S.lang=s.lang}catch(e){}

diff --git a/staging/driver/join/index.html b/staging/driver/join/index.html
@@ -57,7 +57,7 @@ a{color:inherit}
 .agr{margin:0;padding-left:20px;max-height:260px;overflow:auto;border:1.5px solid var(--line,#e5e5e5);border-radius:12px;padding:10px 10px 10px 30px;font-size:13.5px;line-height:1.55}.agr li{margin:0 0 6px}
 </style>
 <script>/* auto-update: reload when a newer version of the app is published */
-(function(){var APPV=window.VCT_V='74',BASE=(document.querySelector('link[rel=manifest]')||{}).href||location.href;
+(function(){var APPV=window.VCT_V='75',BASE=(document.querySelector('link[rel=manifest]')||{}).href||location.href;
 function chk(){try{fetch(new URL('../../version.json',location.href)+'?t='+Date.now(),{cache:'no-store'}).then(function(r){return r.json()}).then(function(j){
  if(!j||!j.v||j.v===APPV)return;var k='vct_reload_'+j.v;try{if(sessionStorage.getItem(k))return;sessionStorage.setItem(k,'1')}catch(e){}
  location.reload()}).catch(function(){})}catch(e){}}
@@ -71,8 +71,8 @@ setTimeout(chk,3000);setInterval(chk,5*60*1000);document.addEventListener('visib
 </div></header>
 <main class="wrap" id="app"></main>
 <footer><a href="../../privacy/#drivers" target="_blank" rel="noopener" id="plink"></a> · Vellore Taxi</footer>
-<script src="../../core/report.js?v=74"></script>
-<script src="../../core/driverchecks.js?v=74"></script>
+<script src="../../core/report.js?v=75"></script>
+<script src="../../core/driverchecks.js?v=75"></script>
 <script>
 const S={lang:'ta',phone:'',veh:'auto',files:{},data:{}};
 try{const s=JSON.parse(localStorage.getItem('vctj')||'{}');if(s.lang)S.lang=s.lang}catch(e){}

diff --git a/tests/e2e/runhelp.py b/tests/e2e/runhelp.py
@@ -1,0 +1,44 @@
+# Driver help line (9 Nov): customers keep calling the office number (72007 30416); drivers call a separate
+# "driver help" number set in Office → Settings. Empty driver help = drivers call the office number as before.
+import asyncio
+from playwright.async_api import async_playwright
+B='http://localhost:8765/tests/e2e/out/'
+res=[]
+def check(n,c,i=''):res.append(bool(c));print(('PASS ' if c else 'FAIL ')+n,i)
+async def main():
+    async with async_playwright() as p:
+        b=await p.chromium.launch();ctx=await b.new_context(viewport={'width':1900,'height':880})
+        pg=await ctx.new_page();errs=[];pg.on('pageerror',lambda e:errs.append(str(e)))
+        await pg.goto(B+'harness_x.html');await pg.wait_for_timeout(2500)
+        await pg.evaluate("MOCK.store.set('config/app',{comm:0,minbal:100,office:'7200730416'})")
+        O=pg.frame_locator('#o');of=pg.frame(url=B+'o2.html')
+        await O.locator('#ph').fill('8220201462');await O.locator('#lgn').click();await pg.wait_for_timeout(300)
+        await O.locator('#otp').fill('123456');await pg.wait_for_timeout(1500)
+        D=pg.frame_locator('#d');df=pg.frame(url=B+'d2.html')
+        await D.locator('#ph').fill('9999900002');await D.locator('#go').click();await pg.wait_for_timeout(300)
+        for i,d in enumerate('123456'):await D.locator(f'#o{i}').fill(d)
+        await D.locator('#go').click();await pg.wait_for_timeout(1500)
+        C=pg.frame_locator('#c');cf=pg.frame(url=B+'c2.html')
+        await C.locator('#go').click();await pg.wait_for_timeout(300)
+        await C.locator('#ph').fill('9999900001');await C.locator('#go').click();await pg.wait_for_timeout(500)
+        for i,d in enumerate('123456'):await C.locator(f'#o{i}').fill(d)
+        await pg.wait_for_timeout(800);await C.locator('#nm').fill('Priya');await C.locator('#go').click();await pg.wait_for_timeout(1500)
+        check('before: drivers call the office number',await df.evaluate("CFGD.office")=='7200730416')
+        # owner sets the driver help line
+        await of.evaluate("S.sec='set';save();show()");await pg.wait_for_timeout(1000)
+        await O.locator('#dh').fill('12345');await O.locator('#sv').click();await pg.wait_for_timeout(800)
+        check('a short driver help number is refused',(await pg.evaluate("MOCK.store.get('config/app')")).get('driverHelp') in (None,''))
+        await O.locator('#dh').fill('9876543210');await O.locator('#sv').click();await pg.wait_for_timeout(1500)
+        cfg=await pg.evaluate("MOCK.store.get('config/app')")
+        check('driver help saved, office number unchanged',cfg.get('driverHelp')=='9876543210' and cfg.get('office')=='7200730416',(cfg.get('driverHelp'),cfg.get('office')))
+        check('driver app now calls the driver help line',await df.evaluate("CFGD.office")=='9876543210')
+        check('customer app still shows the office number',await cf.evaluate("CFG.office")=='7200730416')
+        await of.evaluate("show()");await pg.wait_for_timeout(600)
+        check('Settings shows the saved driver help number',await O.locator('#dh').input_value()=='9876543210')
+        # clearing it sends drivers back to the office number
+        await O.locator('#dh').fill('');await O.locator('#sv').click();await pg.wait_for_timeout(1500)
+        check('empty driver help → drivers call the office number again',await df.evaluate("CFGD.office")=='7200730416')
+        check('no page errors',not errs,errs)
+        await b.close()
+asyncio.run(main())
+print('RESULT','PASS' if all(res) else 'FAIL','%d/%d'%(sum(res),len(res)))
